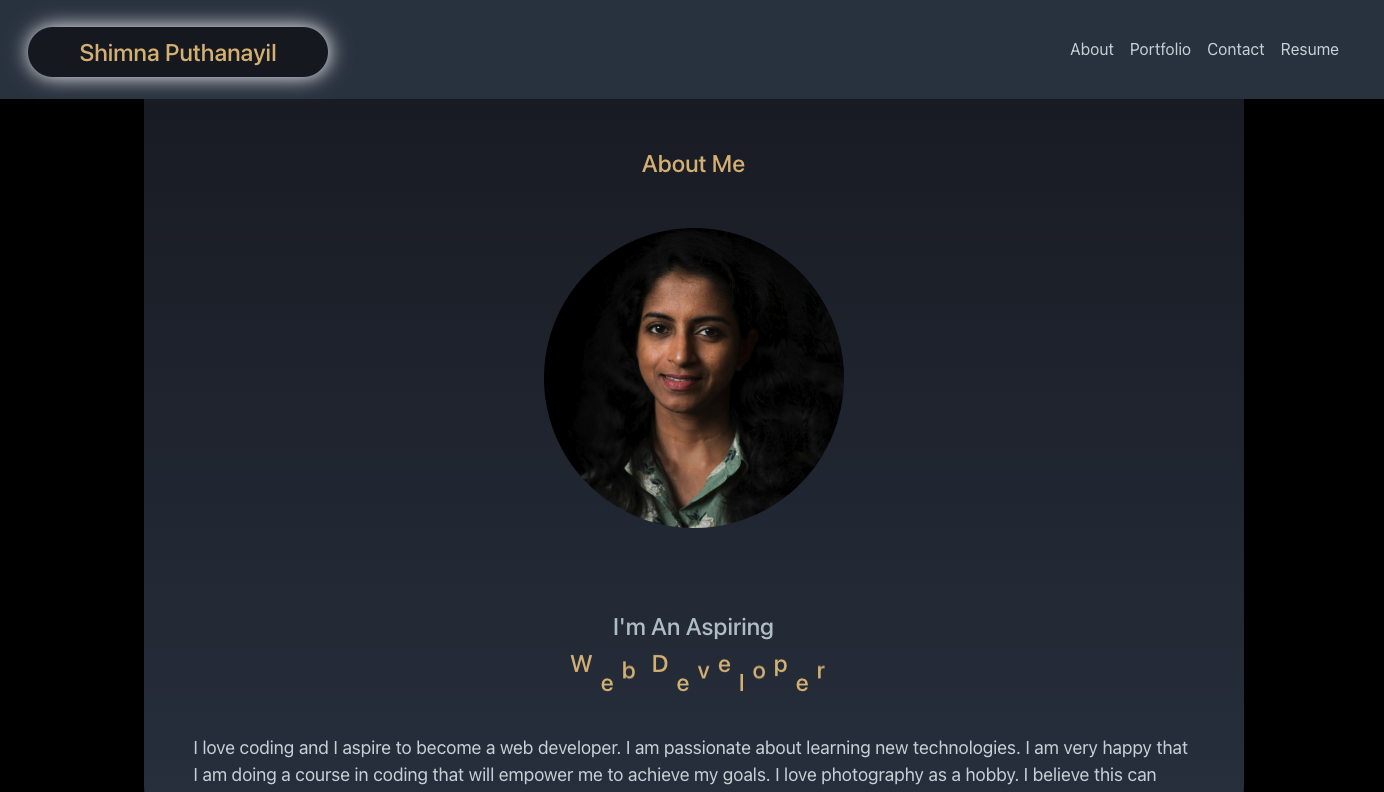
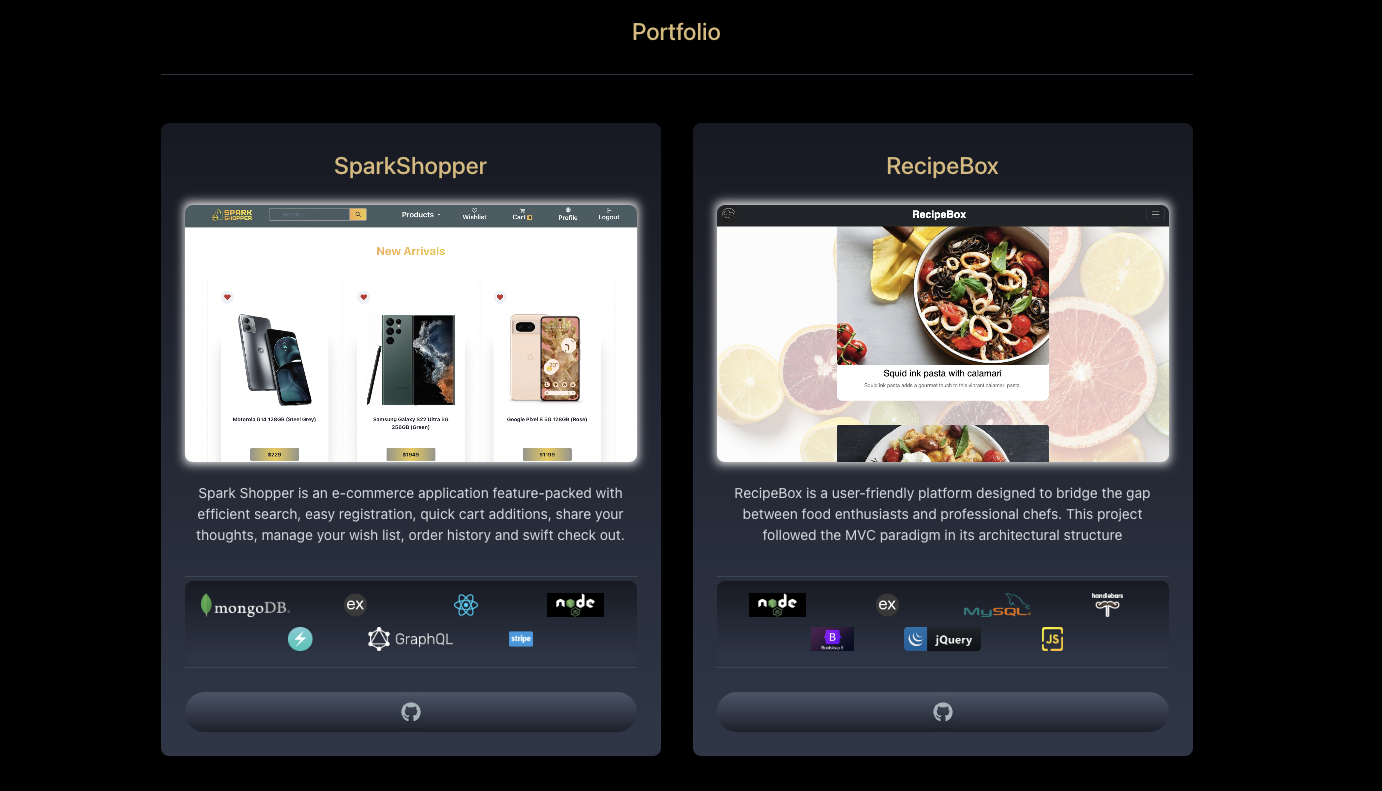
updated projects in portfolio and resume

diff --git a/src/utils/projectsInfo.js b/src/utils/projectsInfo.js
@@ -54,6 +54,21 @@ const getProjects = () => {
       ],
     },
     {
+      name: "Portfolio",
+      url: "images/portfolio.jpeg",
+      deploymentLink: "https://shimna-puthanayil.netlify.app/",
+      description:
+        "This application is a single-page application portfolio built using React for web developers to create a captivating showcase for their work.",
+      gitHubLink: "https://github.com/shimna-puthanayil/my-final-portfolio",
+      technologies: [
+        "images/rr1.png",
+        "images/no.png",
+        "images/chakra-ui.png",
+        "images/js.png",
+        "images/emailjs.webp",
+      ],
+    },
+    {
       name: "TechBlog",
       url: "images/tb.jpeg",
       deploymentLink:
@@ -71,26 +86,18 @@ const getProjects = () => {
       ],
     },
     {
-      name: "JATE",
-      url: "images/jate.jpeg",
-      deploymentLink: "https://stark-stream-59161-d25cfda68e94.herokuapp.com/",
+      name: "Book Search Engine",
+      url: "images/book-search.jpeg",
+      deploymentLink: "https://what-to-read-next-c8be256ac85a.herokuapp.com/",
       description:
         "This single-page application builds a text editor that runs in the browser and meets the PWA criteria ",
-      gitHubLink: "https://github.com/shimna-puthanayil/my-text-pad",
-      technologies: ["images/no.png", "images/exp.png", , "images/js.png"],
-    },
-
-    {
-      name: "Portfolio",
-      url: "images/portfolio.jpeg",
-      deploymentLink: "https://dapper-empanada-1db9b0.netlify.app/",
-      description:
-        "This application is a single-page application portfolio built using React for web developers to create a captivating showcase for their work.",
-      gitHubLink: "https://github.com/shimna-puthanayil/my-final-portfolio",
+      gitHubLink: "https://github.com/shimna-puthanayil/what-to-read-next",
       technologies: [
+        "images/mon.png",
+        "images/exp.png",
         "images/rr1.png",
         "images/no.png",
-        "images/chakra-ui.png",
+        "images/graph.png",
         "images/js.png",
       ],
     },

diff --git a/src/pages/ContactPage.jsx b/src/pages/ContactPage.jsx
@@ -79,7 +79,7 @@ export default function ContactPage() {
         md: {
           w: "full",
           content: '""',
-          bgImage: "url(images/contact-bg.png)",
+          bgImage: "url(images/contact.png)",
           bgSize: "cover",
           pos: "absolute",
           top: 10,
@@ -88,14 +88,14 @@ export default function ContactPage() {
           bottom: 0,
           borderBottomLeftRadius: 80,
           borderTopRightRadius: 80,
-          opacity: 0.2,
+          opacity: 0.25,
         },
       }}
     >
       <Box
         borderRadius="lg"
-        m={{ base: 5, md: 16, lg: 10 }}
-        p={{ base: 5, lg: 16 }}
+        m={{ base: 5, sm: 16, md: 16, lg: 16 }}
+        p={{ base: 5, sm: 16, md: 16, lg: 16 }}
       >
         <VStack
           spacing={{ base: 4, md: 20, lg: 20 }}
@@ -108,6 +108,8 @@ export default function ContactPage() {
           w={{ base: "auto", md: "2xl", lg: "2xl" }}
           pt={50}
           pb={20}
+          backdropFilter="auto"
+          backdropBlur="8px"
         >
           <Heading
             fontSize={{ base: "2xl", md: "2xl" }}
@@ -136,7 +138,7 @@ export default function ContactPage() {
               <VStack spacing={5}>
                 <Formik
                   initialValues={{}}
-                  onSubmit={(values, actions, { resetForm }) => {
+                  onSubmit={(values, actions) => {
                     setTimeout(() => {
                       // alert(JSON.stringify(values, null, 2));
                       actions.setSubmitting(false);
@@ -151,7 +153,6 @@ export default function ContactPage() {
                       })
                       .then((res) => {
                         console.log("Email successfully sent!");
-                        resetForm({});
                       })
                       // Handle errors
                       .catch((err) =>

diff --git a/src/pages/ResumePage.jsx b/src/pages/ResumePage.jsx
@@ -32,15 +32,12 @@ export default function ResumePage() {
     setBackEndSkills(backEndskills);
   };
 
-  // When the component mounts to the VDOM, run this callback to retrieve  all front end skills
+  // When the component mounts to the VDOM, run this callback to retrieve  all front end skills and all back end skills
   useEffect(() => {
     getFrontEndSkills();
-  }, []);
-
-  // When the component mounts to the VDOM, run this callback to retrieve  all back end skills
-  useEffect(() => {
     getBackEndSkills();
   }, []);
+
   return (
     <Flex align="center" justify="center">
       <Box
@@ -92,11 +89,11 @@ export default function ResumePage() {
               direction={{ base: "column", md: "row" }}
             >
               {/*front end skills */}
-              <VStack spacing={3} align="center" w={300}>
+              <VStack spacing={3} align="center" w={ 300 }>
                 <Skill skills={frontEndskills} title=" Frontend Skills" />
               </VStack>
               {/*back end skills */}
-              <VStack spacing={3} align="center" w={300}>
+              <VStack spacing={3} align="center" w={ 300 }>
                 <Skill skills={backEndskills} title=" Backend Skills" />
               </VStack>
             </Stack>

diff --git a/src/components/UI/skill.jsx b/src/components/UI/skill.jsx
@@ -19,7 +19,7 @@ export default function Skill({ skills, title }) {
 
       {skills.map((skill, i) => (
         <Box
-          w={300}
+          w={{ base: 250, sm: 250 }}
           borderTopLeftRadius={40}
           borderBottomRightRadius={40}
           bgGradient={[
